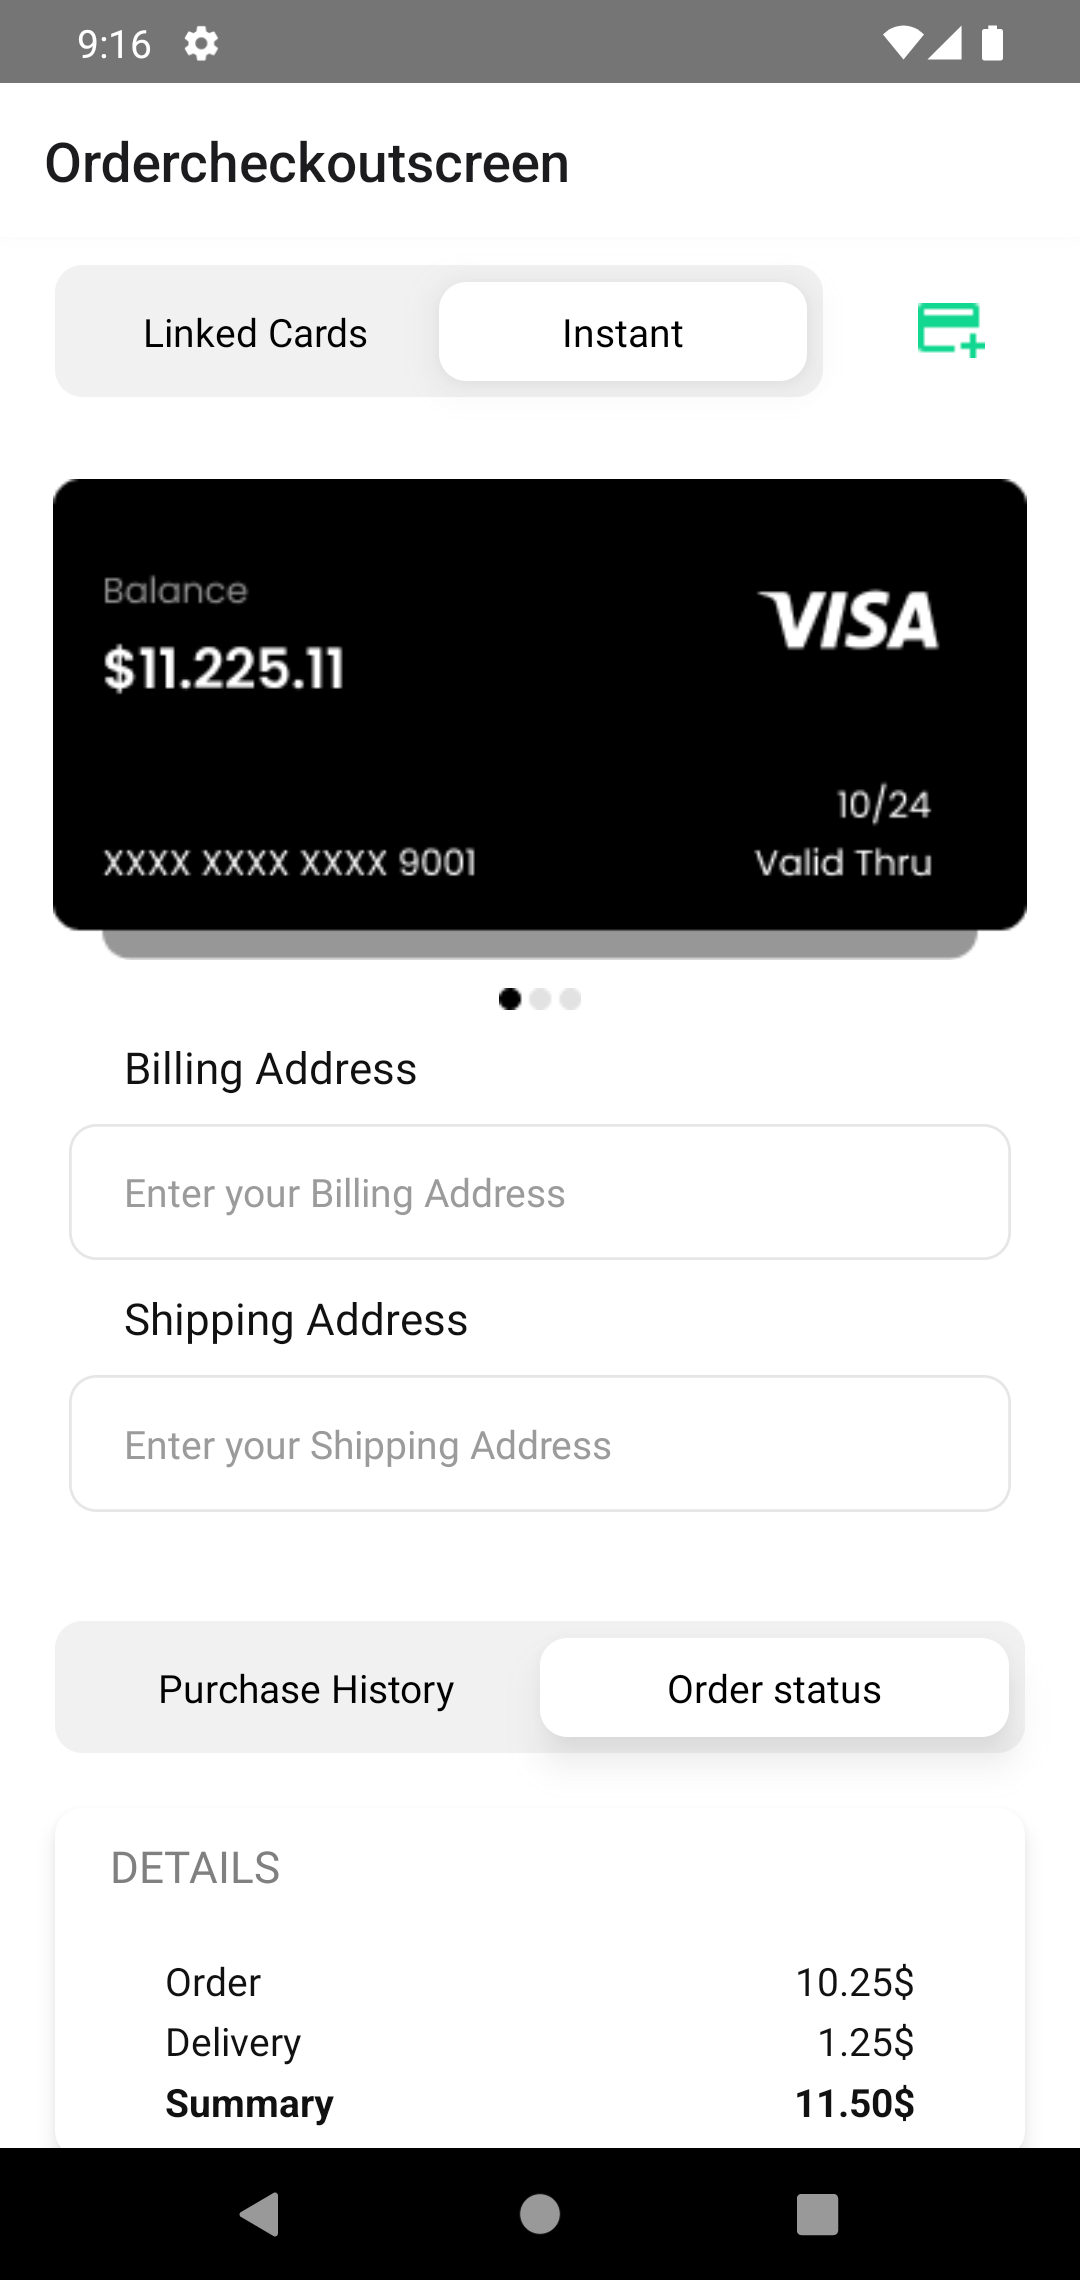
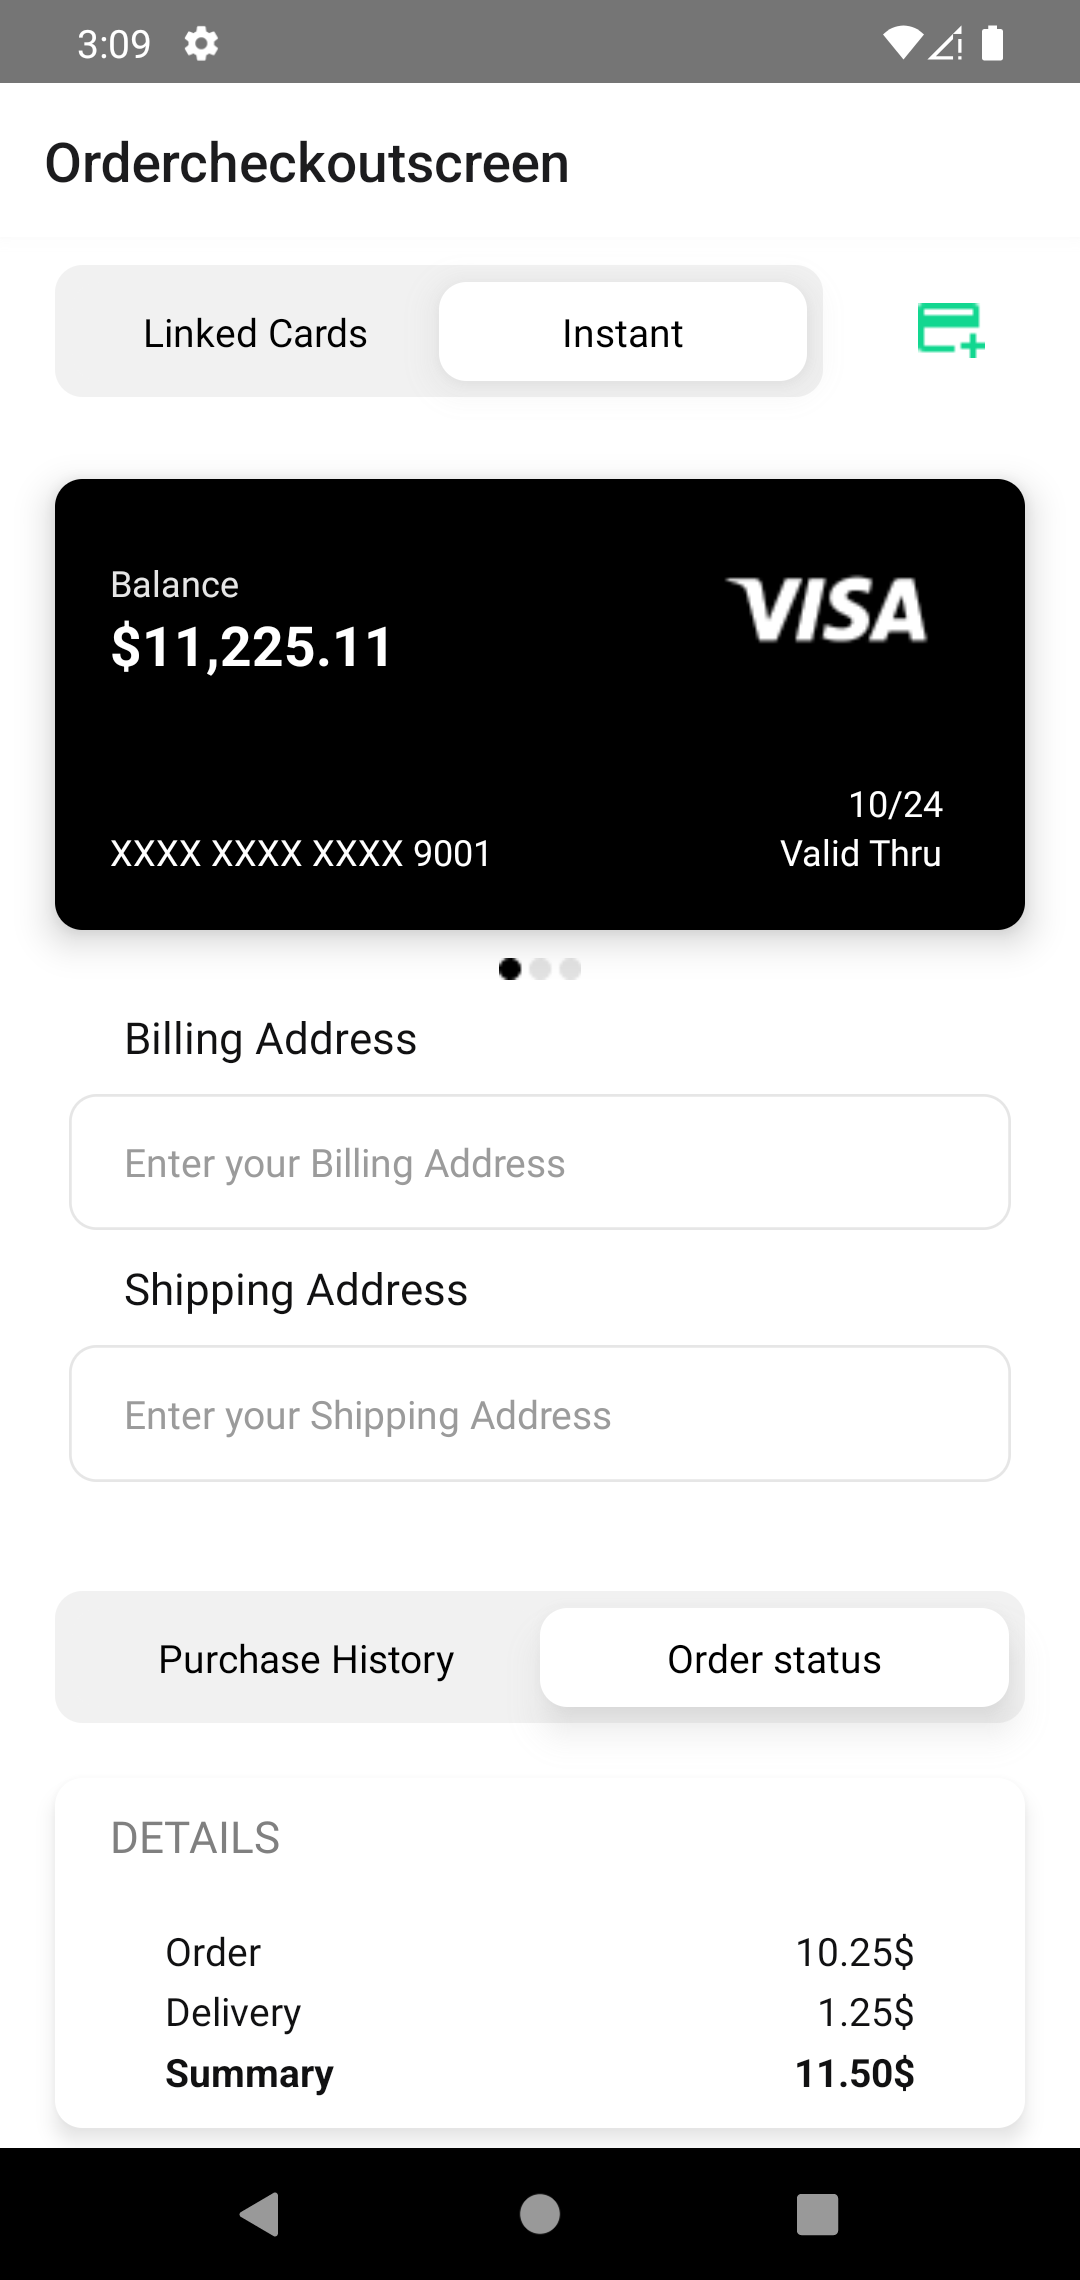
DebitCard component added in ordercheckout screen

diff --git a/screens/Ordercheckoutscreen/index.js b/screens/Ordercheckoutscreen/index.js
@@ -1,4 +1,4 @@
-import React, { useState } from "react";
+import React, { useState, useEffect } from "react";
 import {
   Text,
   StyleSheet,
@@ -13,6 +13,15 @@ import {
 const BillingPreferencesScreen = params => {
   const [billingAddress, setBillingAddress] = useState("");
   const [shippingAddress, setShippingAddress] = useState("");
+  const [cardDetails, setCardDetails] = useState({});
+  useEffect(() => {
+    setCardDetails({
+      balance: "11,225.11",
+      type: "Visa",
+      cardNumber: "XXXX XXXX XXXX 9001",
+      validThru: "10/24"
+    });
+  }, []);
   return (
     <SafeAreaView style={styles.container}>
       <ScrollView>
@@ -24,10 +33,7 @@ const BillingPreferencesScreen = params => {
           />
         </View>
         <View style={styles.cardInfo}>
-          <Image
-            source={require("./assets/Card-large.png")}
-            style={styles.card}
-          />
+          <DebitCard cardDetails={cardDetails} />
           <Image
             source={require("./assets/3Dots.png")}
             style={styles.threeDots}
@@ -391,5 +397,111 @@ const buttonStyles = StyleSheet.create({
   childrenContainer: {
     justifyContent: "center",
     alignItems: "center"
+  }
+});
+
+const DebitCard = props => {
+  return (
+    <View style={debitCardStyles.container}>
+      <View style={debitCardStyles.upperHalf}>
+        <View style={debitCardStyles.balanceContainer}>
+          <Text style={debitCardStyles.balanceText}>Balance</Text>
+          <Text style={debitCardStyles.balance}>
+            ${props.cardDetails.balance}
+          </Text>
+        </View>
+        <View style={debitCardStyles.cardTypeContainer}>
+          {props.cardDetails.type === "Visa" ? (
+            <Image
+              source={require("./assets/visa.png")}
+              style={debitCardStyles.cardTypeImage}
+            />
+          ) : (
+            <Image
+              source={require("./assets/masterCard.png")}
+              style={debitCardStyles.cardTypeImage}
+            />
+          )}
+        </View>
+      </View>
+      <View style={debitCardStyles.lowerHalf}>
+        <View style={debitCardStyles.numberContainer}>
+          <Text style={debitCardStyles.numberText}>
+            {props.cardDetails.cardNumber}
+          </Text>
+        </View>
+        <View style={debitCardStyles.validityContainer}>
+          <Text style={debitCardStyles.validityText}>
+            {props.cardDetails.validThru}
+          </Text>
+          <Text style={debitCardStyles.validityText}>Valid Thru</Text>
+        </View>
+      </View>
+    </View>
+  );
+};
+const debitCardStyles = StyleSheet.create({
+  container: {
+    width: "100%",
+    height: 164,
+    backgroundColor: "#000",
+    borderRadius: 10,
+    elevation: 10,
+    paddingHorizontal: 20,
+    paddingVertical: 20
+  },
+  whiteText: {
+    color: "#fff"
+  },
+  upperHalf: {
+    flex: 1,
+    flexDirection: "row"
+  },
+  lowerHalf: {
+    flex: 1,
+    flexDirection: "row"
+  },
+  balanceContainer: {
+    flex: 1,
+    justifyContent: "center"
+  },
+  balanceText: {
+    fontSize: 13,
+    color: "#e6e6e6"
+  },
+  balance: {
+    fontSize: 20,
+    fontWeight: "bold",
+    color: "#fff"
+  },
+  cardTypeContainer: {
+    flex: 1,
+    justifyContent: "center",
+    alignItems: "flex-end"
+  },
+  cardTypeImage: {
+    height: 80,
+    width: 100,
+    marginBottom: 10,
+    resizeMode: "contain",
+    marginLeft: 10
+  },
+  numberContainer: {
+    flex: 1,
+    justifyContent: "flex-end"
+  },
+  numberText: {
+    fontSize: 13,
+    color: "#fff"
+  },
+  validityContainer: {
+    flex: 1,
+    justifyContent: "flex-end",
+    alignItems: "flex-end"
+  },
+  validityText: {
+    fontSize: 13,
+    color: "#fff",
+    marginRight: 10
   }
 });

diff --git a/modules/index.js b/modules/index.js
@@ -2,7 +2,7 @@ import mods from "./*/index.js";
 import { getModules } from "./modules.js";
 
 export const modules = getModules(mods);
-export const initialRoute = "Productrecommendationscreen";
+export const initialRoute = "Ordercheckoutscreen";
 export const slices = modules
   .filter(mod => mod.value.slice)
   .map(mod => mod.value.slice);
